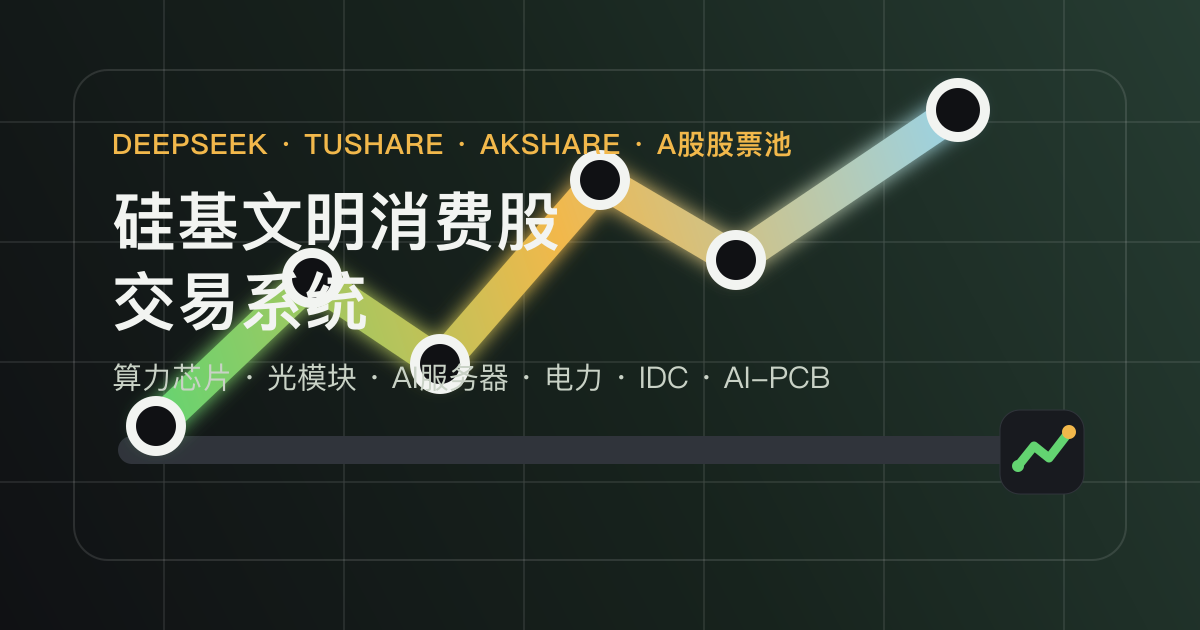
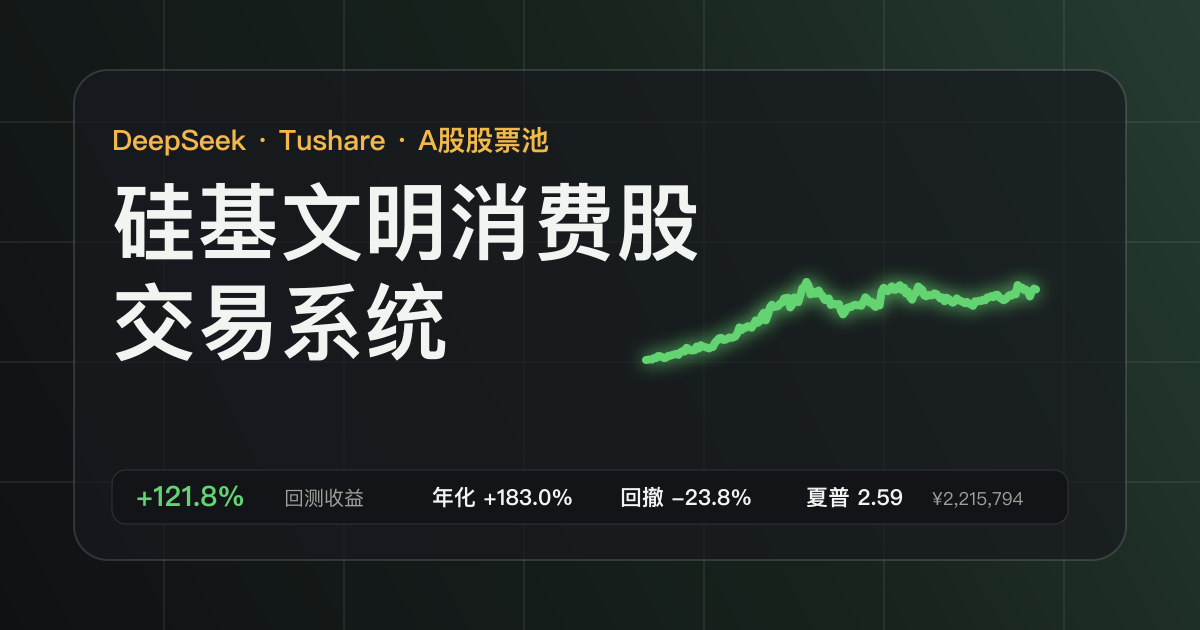
Update social card backtest design

Changed region(s): [[0.0925, 0.1206, 0.925, 0.8444]]

diff --git a/web/scripts/snapshot.ts b/web/scripts/snapshot.ts
@@ -8,8 +8,107 @@
 // Env overrides:
 //   SNAPSHOT_BACKTEST_START=2024-01-01  SNAPSHOT_BACKTEST_END=2026-05-14
 //   SNAPSHOT_SKIP_SIGNALS=1  SNAPSHOT_SKIP_BACKTEST=1
+//   SNAPSHOT_ONLY_SOCIAL_CARD=1  # rebuild social-card assets from docs/data/backtest.json
 import fs from "node:fs";
 import path from "node:path";
+import { execFileSync } from "node:child_process";
+import type { BacktestConfig, BacktestResult } from "../lib/backtest";
+
+type SnapshotBacktest = {
+  generated_at?: string;
+  config: BacktestConfig;
+  stats: BacktestResult["stats"];
+  equityCurve: Array<{ date: string; equity: number; cash?: number }>;
+  trades: BacktestResult["trades"];
+};
+
+function xml(s: string): string {
+  return s.replaceAll("&", "&amp;").replaceAll("<", "&lt;").replaceAll(">", "&gt;");
+}
+
+function pct(v: number, digits = 1): string {
+  return `${v > 0 ? "+" : ""}${v.toFixed(digits)}%`;
+}
+
+function money(v: number): string {
+  return `¥${Math.round(v).toLocaleString("en-US")}`;
+}
+
+function socialCardSvg(bt: SnapshotBacktest): string {
+  const { config, stats, equityCurve } = bt;
+  const values = equityCurve.map((b) => b.equity);
+  const min = Math.min(...values);
+  const max = Math.max(...values);
+  const range = max - min || 1;
+  const width = 390;
+  const height = 78;
+  const denom = equityCurve.length > 1 ? equityCurve.length - 1 : 1;
+  const points = equityCurve.map((b, i) => {
+    const x = 646 + (i / denom) * width;
+    const y = 360 - ((b.equity - min) / range) * height;
+    return `${x.toFixed(1)},${y.toFixed(1)}`;
+  }).join(" ");
+  const last = values.at(-1) ?? config.startCash;
+  const lineColor = stats.totalReturnPct >= 0 ? "#63d471" : "#ff6b6b";
+
+  return `<svg xmlns="http://www.w3.org/2000/svg" viewBox="0 0 1200 630" role="img" aria-label="硅基文明消费股交易系统">
+  <defs>
+    <linearGradient id="bg" x1="0" y1="630" x2="1200" y2="0" gradientUnits="userSpaceOnUse">
+      <stop offset="0" stop-color="#101114"/>
+      <stop offset=".58" stop-color="#17231d"/>
+      <stop offset="1" stop-color="#263c32"/>
+    </linearGradient>
+    <filter id="soft-glow" x="-20%" y="-30%" width="140%" height="160%">
+      <feGaussianBlur stdDeviation="9" result="blur"/>
+      <feMerge><feMergeNode in="blur"/><feMergeNode in="SourceGraphic"/></feMerge>
+    </filter>
+  </defs>
+  <rect width="1200" height="630" fill="url(#bg)"/>
+  <g opacity=".14" stroke="#f2f4f1" stroke-width="1">
+    <path d="M0 122h1200M0 242h1200M0 362h1200M0 482h1200"/>
+    <path d="M164 0v630M344 0v630M524 0v630M704 0v630M884 0v630M1064 0v630"/>
+  </g>
+  <rect x="74" y="70" width="1052" height="490" rx="34" fill="#181a1f" fill-opacity=".68" stroke="#f2f4f1" stroke-opacity=".14" stroke-width="2"/>
+  <text x="112" y="150" fill="#f2b84b" font-family="-apple-system,BlinkMacSystemFont,'Segoe UI','PingFang SC','Microsoft YaHei',sans-serif" font-size="28" font-weight="700">DeepSeek · Tushare · A股股票池</text>
+  <text x="112" y="252" fill="#f2f4f1" font-family="-apple-system,BlinkMacSystemFont,'Segoe UI','PingFang SC','Microsoft YaHei',sans-serif" font-size="84" font-weight="850">硅基文明消费股</text>
+  <text x="112" y="352" fill="#f2f4f1" font-family="-apple-system,BlinkMacSystemFont,'Segoe UI','PingFang SC','Microsoft YaHei',sans-serif" font-size="84" font-weight="850">交易系统</text>
+  <g font-family="-apple-system,BlinkMacSystemFont,'Segoe UI','PingFang SC','Microsoft YaHei',sans-serif">
+    <g transform="translate(112 470)">
+      <rect width="956" height="54" rx="14" fill="#121418" stroke="#30343b"/>
+      <text x="24" y="36" fill="${lineColor}" font-size="28" font-weight="800">${xml(pct(stats.totalReturnPct, 1))}</text>
+      <text x="172" y="35" fill="#9ca39a" font-size="20">回测收益</text>
+      <text x="320" y="35" fill="#f2f4f1" font-size="22" font-weight="700">年化 ${xml(pct(stats.cagrPct, 1))}</text>
+      <text x="508" y="35" fill="#f2f4f1" font-size="22" font-weight="700">回撤 ${xml(pct(stats.maxDrawdownPct, 1))}</text>
+      <text x="694" y="35" fill="#f2f4f1" font-size="22" font-weight="700">夏普 ${stats.sharpe.toFixed(2)}</text>
+      <text x="820" y="35" fill="#9ca39a" font-size="18">${xml(money(last))}</text>
+    </g>
+  </g>
+  <polyline points="${points}" fill="none" stroke="${lineColor}" stroke-width="8" stroke-linecap="round" stroke-linejoin="round" filter="url(#soft-glow)"/>
+</svg>
+`;
+}
+
+function writeSocialCard(bt: SnapshotBacktest) {
+  const docsDir = path.resolve(__dirname, "..", "..", "docs");
+  const publicDir = path.resolve(__dirname, "..", "public");
+  const svg = socialCardSvg(bt);
+  for (const dir of [docsDir, publicDir]) {
+    fs.writeFileSync(path.join(dir, "social-card.svg"), svg);
+  }
+  try {
+    for (const dir of [docsDir, publicDir]) {
+      execFileSync("rsvg-convert", [
+        "-w", "1200",
+        "-h", "630",
+        "-o", path.join(dir, "social-card.png"),
+        path.join(dir, "social-card.svg"),
+      ]);
+    }
+    console.log("  wrote social-card.svg/png");
+  } catch (e) {
+    console.warn(`  wrote social-card.svg; skipped png render: ${e instanceof Error ? e.message : String(e)}`);
+  }
+}
 
 // Load .env.local BEFORE importing modules that read process.env at module scope.
 (() => {
@@ -25,6 +124,15 @@ import path from "node:path";
 })();
 
 async function main() {
+  const OUT = path.resolve(__dirname, "..", "..", "docs", "data");
+  fs.mkdirSync(OUT, { recursive: true });
+  if (process.env.SNAPSHOT_ONLY_SOCIAL_CARD) {
+    const existingBacktest = path.join(OUT, "backtest.json");
+    if (!fs.existsSync(existingBacktest)) throw new Error("docs/data/backtest.json not found");
+    writeSocialCard(JSON.parse(fs.readFileSync(existingBacktest, "utf-8")) as SnapshotBacktest);
+    return;
+  }
+
   // Dynamic imports so env loading above lands before any module-scope reads.
   const { readUniverse } = await import("../lib/universe");
   const { fetchAnalyst, fetchSpot, fetchKlines, fetchFundamental } = await import("../lib/pyserver");
@@ -34,8 +142,7 @@ async function main() {
   type SymbolSnapshot = import("../lib/deepseek").SymbolSnapshot;
   type SymbolSeries = import("../lib/backtest").SymbolSeries;
 
-  const OUT = path.resolve(__dirname, "..", "..", "docs", "data");
-  fs.mkdirSync(OUT, { recursive: true });
+  let latestBacktest: SnapshotBacktest | null = null;
 
   function write(name: string, value: unknown) {
     fs.writeFileSync(path.join(OUT, name), JSON.stringify(value, null, 2) + "\n");
@@ -161,16 +268,24 @@ async function main() {
         process.stdout.write(`  ${p.phase}: ${p.done}/${p.total}\n`);
       }
     });
-    write("backtest.json", {
+    const snapshotBacktest = {
       generated_at: new Date().toISOString(),
       config: result.config,
       stats: result.stats,
       equityCurve: result.equityCurve.map((b) => ({ date: b.date, equity: b.equity, cash: b.cash })),
       trades: result.trades,
-    });
+    };
+    write("backtest.json", snapshotBacktest);
+    latestBacktest = snapshotBacktest;
   } else {
     console.log("[backtest] skipped");
+    const existingBacktest = path.join(OUT, "backtest.json");
+    if (fs.existsSync(existingBacktest)) {
+      latestBacktest = JSON.parse(fs.readFileSync(existingBacktest, "utf-8")) as SnapshotBacktest;
+    }
   }
+
+  if (latestBacktest) writeSocialCard(latestBacktest);
 
   write("meta.json", {
     generated_at: new Date().toISOString(),